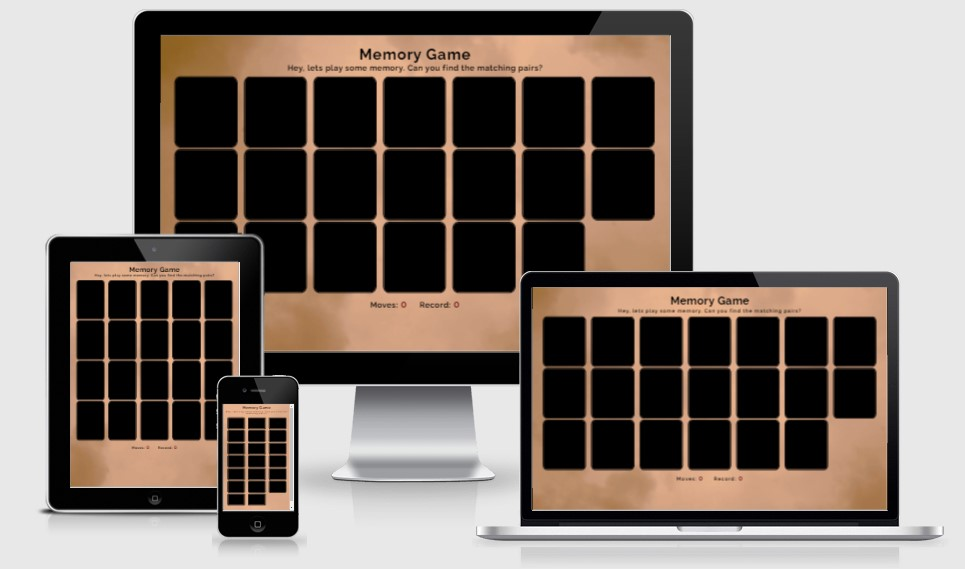
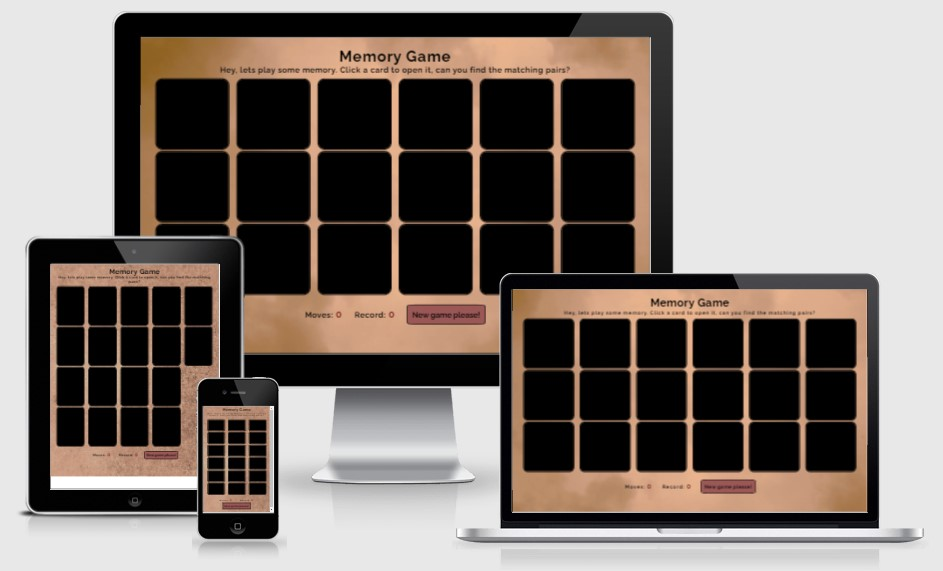
updating readme file

Changed region(s): [[0.0, 0.0, 0.9226, 0.9561], [0.492, 0.9262, 0.5228, 0.9561]]

diff --git a/assets/js/script.js b/assets/js/script.js
@@ -67,8 +67,6 @@ function startGame() {
  * Call checkPair function when 2 cards are clicked.
  */
 function openCard(turnedCards, card) {
-    
-    console.log(card.getAttribute("src"))
     card.classList.remove("closed");
     card.removeEventListener("click", open, true);
     turnedCards.push(card);
@@ -84,7 +82,7 @@ function openCard(turnedCards, card) {
             checkPair(turnedCards);
             turnedCards.length = 0;
             addMove();
-        }, 800);    
+        }, 650);    
     }
 }
 

diff --git a/README.md b/README.md
@@ -1,10 +1,10 @@
 # Memory game
 
-- Memory game is a site that provides a challenging and fun game for the user. The game will awaken your competitive instinct, entertain you, challenge you and give you some nice images to look at.
+ - Memory game is a site that provides a challenging and fun game for the user. The game will awaken your competitive instinct, entertain you, challenge you and give you some nice images to look at.
 
 ## Wireframe
 
-- My first idea of design layout:
+ - My first idea of design layout:
 
 ![Wireframe](assets/images/wireframe.jpg)
 
@@ -12,51 +12,50 @@
 
 ### Header
 
-- Gives the user information about what kind of game this is and what the goal is.
+ - Gives the user information about what kind of game this is, how to start it and what you need to do to win.
 ![Header](assets/images/header.jpg)
 
 ### Game area
 
-- The user is provided with 20 black squares that are supposed to play the role as playingcards turned upside down. The images that is hiding "behind" the cards are of 10 different images where every image has an identical twin, that the user i supposed to find. When the user hovers over a card it will react with getting a little bigger. This gives the user direct information about the possibility to click the cards.
+ - The user is provided with 18 black squares that are supposed to play the role as playing cards turned upside down. The images that are hiding "behind" the cards are of 9 different images where every image has an identical twin, that the user is supposed to find. When the user hovers over a card it will react with getting a little bigger. This gives the user direct information about the possibility to click the cards.
 ![Playing area](assets/images/game-area.jpg)
-- When you click a card it will show you an image in color, then the user is expected to click another one. When two cards are shown it will stay colored for a while, if they are the same image they will get a grayscale filter and stay opened. If they dont match they will turn black again.
+ - When you click a card it will show you an image in colour, then the user is expected to click another one. When two cards are shown it will stay coloured for a while. If they are the same image, they will get a grayscale filter and stay opened. If they don’t match, they will turn black again.
 It is not possible to click a card that is already turned and its also not possible to click any card when there are two cards turned. After the cards turned back to black or got a grayscale filter, the game continues.
 ![Playing area with some turned cards](assets/images/game-area-colors.jpg)
 
 ### Score area
 
-- At the bottom of the page the scores will be provided. Every time the user has turned 2 cards it will count as a "move". The amount of moves you have made will be shown as "moves" and when you finish the game the "record" will show you the lowest amount of moves you have made to finish the game, since the page loaded.
+ - At the bottom of the page the scores will be provided. Every time the user has turned 2 cards it will count as a "move". The amount of moves you have made will be shown as "moves" and when you finish the game the "record" will show you the lowest amount of moves you have made to finish the game, since the page loaded.
+ - Here it is also possible to start over with the "New game please!" button. It will shuffle all cards and turn them upside down again.
 ![Score area](assets/images/score-section.jpg)
 
 ### Popup winning message
 
-- When the user found every pair and managed to turn all the cards, a popup message will apear. The message will give a compliment to the user and provide information about how many moves the managed to win the game with. 
-Here there will be possible to click a button to go back to the game with a new game area with images in another order. As with the cards, the button will react when hoverd over to show the user that it is clickable.
+ - When the user found every pair and managed to turn all the cards, a popup message will appear. The message will give a compliment to the user and provide information about how many moves the managed to win the game with. 
+Here there will be possible to click a button to go back to the game with a new game area with images in another order. As with the cards, the button will react when hovered over to show the user that it is clickable.
 ![Popup when the user finished the game](assets/images/modal-norecord.jpg)
-- If the amount of moves are less then the current record, the user will be provided with inormation about the new achieve record.
+ - If the number of moves is less then the current record, the user will be provided with information about the new achieve record.
 ![Popup when the user finished the game and got a new record](assets/images/modal-record.jpg)
 
-### Aditional ideas of extra features
+### Additional ideas of extra features
 
-- Make the play again button bigger on mobile phone screensizes so it is easier to click with the thumb
-- Change the amount of cards depending on screensize so the roaws and columns always are similar in length. This gives a nicer design layout.
-- A retry button underneath the score area to give the user a possibility to start over in the middle of a game.
-- A little longer time to show the colored cards before they turn back, to make it easier for the user to remember the images.
-- A description in the header on how to play technically instead of assuming the user will figure it out.
+ - Change the number of cards depending on screen sizes.
+   - Makes it possible to have bigger images on smaller screen sizes.
+   - Also, it will look nicer on the screen sizes where the column count makes the column different in length which doesn’t look really good.
 
 ## Testing
 
-### Mockup
+### Mock-up
 
-- The site is tested on different screensizes and works well almost everytime without a scrollbar
-![mockup](assets/images/mockup.jpg)
+ - The site is tested on different screen sizes and works well almost every time without a scrollbar
+![mock-up](assets/images/mockup.jpg)
 
 ### Lighthouse
 
-- The site gets really good grades on the lighthouse scan.
+ - The site gets good grades on the lighthouse scan.
 Comments to get better grade:
-  - Document does not have a meta description
-  - Displays images with incorrect aspect ratio (I am guessing this is because the border of the images, wich I think only gives a nicer look)
+   - Displays images with incorrect aspect ratio.
+      - This can be achieved if I put some time in to editing the images more before adding them.
 ![lighthouse](assets/images/lighthouse.jpg)
 
 ### Validator testing
@@ -65,7 +64,7 @@ Comments to get better grade:
   - No errors were returned when passing through the official <a href="https://validator.w3.org/nu/?doc=https%3A%2F%2Fjessicarydberg.github.io%2FMemoryGame%2F" target="_blank">W3C validator</a>
 - CSS
   - No errors were found when passing through the official <a href="https://jigsaw.w3.org/css-validator/validator?uri=https%3A%2F%2Fjessicarydberg.github.io%2FMemoryGame%2F&profile=css3svg&usermedium=all&warning=1&vextwarning=&lang=en" target="_blank">(Jigsaw) validator</a>
-- Javascript
+- JavaScript
   - No errors were found when passing through the official <a href="https://jshint.com/" target="_blank">Jshint validator</a>
   - The following metrics was returned:
     - There are 11 functions in this file.
@@ -76,18 +75,18 @@ Comments to get better grade:
 ### Fixed bugs
 
  - When clicking the "play again" button it is supposed to first remove all cards from the game area and then add 20 new ones in a shuffled order. 
-   - I made a for loop with the expectation that it would add the remove() method to all the cards. I made an HTML collection with all the cards and added the remove() method to all of them targeting them with index = i at the end of the variable. What happend is that only 10 out of 20 cards was removed.
-     - I realised after a while that the length of the HTML collection of images got shorter everytime one object was removed wich only added the remove() mehod to every other image and only removing half of them.
-     - I solved the issue creating a while loop that loop while the HTML collections length was more then 0 and removing every object targetet with index= 0
- - I needed to remove the eventlistener to every card that was turned and shown, to make it unclickable, but I couldnt get it to work wich gave the user possibility to click one card two times and in that way "find the pair" because you clicked two images with the same source.
-   - The console told me that it couldnt read "removeEventListener". I realised that the function the eventlistener was gonna provide was not in reach for both the add and remove listener method.
-     - I solved it by putting the function as a value to a variable and then declairing this variable to the global scope.
- - When the user was really fast and clicked three cards before the two first cards turned back och grayscale, all three cards turned. After this the eventlisteners didnt really work as expected on some cards and some cards didnt turn the right way as expected.
+   - I made a for loop with the expectation that it would add the remove() method to all the cards. I made an HTML collection with all the cards and added the remove() method to all of them targeting them with index = i at the end of the variable. What happened is that only 10 out of 20 cards was removed.
+     - I realised after a while that the length of the HTML collection of images got shorter every time one object was removed witch only added the remove() method to every other image and only removing half of them.
+     - I solved the issue creating a while loop that loop while the HTML collections length was more then 0 and removing every object targeted with index= 0
+ - I needed to remove the eventlistener to every card that was turned and shown, to make it unclickable, but I couldn’t get it to work which gave the user possibility to click one card two times and in that way "find the pair" because you clicked two images with the same source.
+   - The console told me that it couldn’t read "removeEventListener". I realised that the function the eventlistener was going to provide was not in reach for both the add and remove listener method.
+     - I solved it by putting the function as a value to a variable and then declaring this variable to the global scope.
+ - When the user was fast and clicked three cards before the two first cards turned black or grayscale, all three cards turned. After this the eventlisteners didn’t really work as expected on some cards and some cards didn’t turn the right way as expected.
    - I solved it by removing all eventlisteners directly after two cards was turned. This made all other cards unclickable during the time the two cards was shown.
 
 ### Unfixed bugs
 
- - The text on "Play again!" button seems to turn out blue on some screens. I think this happens only on iphones but I am not sure yet.
+ - The text on "Play again!" button seems to turn out blue on some screens.
 
 ## Deployment
 
@@ -96,7 +95,7 @@ Comments to get better grade:
    - Then at regular intervals i used command git add filename to add the various files into it.
    - Then i committed to local repo with command git commit -m "useful string info"
    - Then finally uploaded it to my GitHub repo with git push
-     - When everything was done I navigated to the Settings tab in the GitHub repository, scrolled down to "GitHub Pages" section and clicked "Check it out here!" link.
+     - When everything was done, I navigated to the Settings tab in the GitHub repository, scrolled down to "GitHub Pages" section and clicked "Check it out here!" link.
 Once the master branch has been selected, the page will be automatically refreshed with a detailed ribbon display to indicate the successful deployment.
 The live link can be found here: https://jessicarydberg.github.io/MemoryGame/
 
@@ -108,7 +107,7 @@ The live link can be found here: https://jessicarydberg.github.io/MemoryGame/
 
 ### Design
 
- - Used <a href="https://imagecolorpicker.com/" target="_blank">Imagecolorpicker</a> to pick colors from the background images and use for the rest of the page.
+ - Used <a href="https://imagecolorpicker.com/" target="_blank">Imagecolorpicker</a> to pick colours from the background images and use for the rest of the page.
  - Got my link for styling my fonts from <a href="https://fonts.google.com/" target="_blank">Google fonts</a>.
 
 ### Images
@@ -116,5 +115,5 @@ The live link can be found here: https://jessicarydberg.github.io/MemoryGame/
  - Got my image for the favicon from <a href="https://www.iconsdb.com/maroon-icons/micro-sd-icon.html" target="_blank">Iconsdb</a>.
  - I converted my png file (image for favicon) to a ico file using this <a href="https://favicon.io/" target="_blank">Favicon generator</a>.
  - Got all images for the playing cards at <a href="https://unsplash.com/" target="_blank">Unsplash</a>
- - Made my mockup at <a href="http://ami.responsivedesign.is/" target="_blank">Ami responsive design</a>
+ - Made my mock-up at <a href="http://ami.responsivedesign.is/" target="_blank">Ami responsive design</a>
  - Used <a href="https://www.reduceimages.com/?gclid=CjwKCAiAgbiQBhAHEiwAuQ6BkjPcHdKgXFydjxwbJlulKrBysn4VcY1yxKLqQ-wAOrMoAlnrJ6zqxRoCkccQAvD_BwE" target="_blank">Reduce images</a> to make my images a bit smaller. This made the page load much faster.
